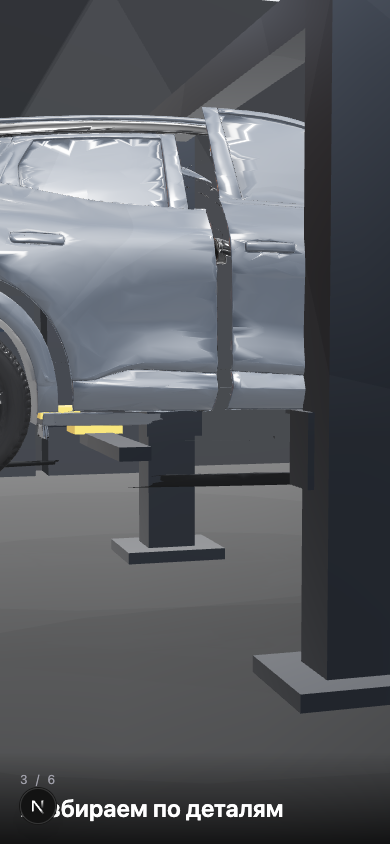
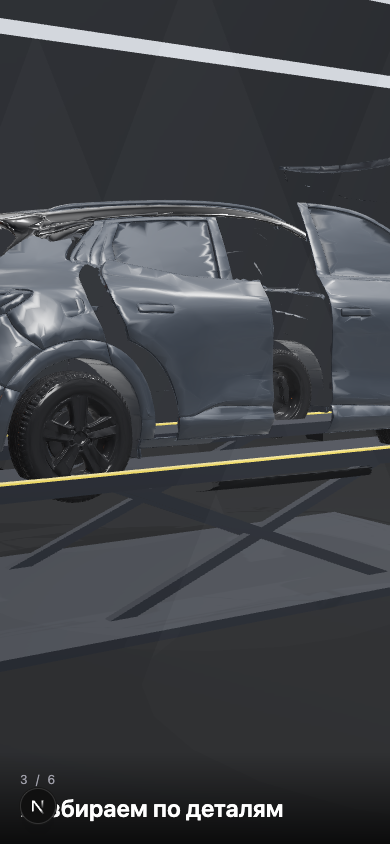
fix(garage): floor/lift materials without env glare, hide ceiling strips in the top view, satin paint, GPU capture on the Mac; fresh tz10 screenshots (60 fps)

diff --git a/src/components/garage-3d/GarageScene.tsx b/src/components/garage-3d/GarageScene.tsx
@@ -9,7 +9,6 @@ import * as THREE from "three";
 import { GLTFLoader } from "three/addons/loaders/GLTFLoader.js";
 import { MeshoptDecoder } from "three/addons/libs/meshopt_decoder.module.js";
 import { RoomEnvironment } from "three/addons/environments/RoomEnvironment.js";
-import { mergeVertices } from "three/addons/utils/BufferGeometryUtils.js";
 import { Reflector } from "three/addons/objects/Reflector.js";
 import { RectAreaLightUniformsLib } from "three/addons/lights/RectAreaLightUniformsLib.js";
 import { CSS2DRenderer, CSS2DObject } from "three/addons/renderers/CSS2DRenderer.js";
@@ -76,7 +75,7 @@ function cameraPose(p: number, outPos: THREE.Vector3, outTgt: THREE.Vector3, car
   if (p < 0.15) outTgt.x += carX * 0.55; // follow the car while it drives in
 }
 
-function buildEnvironment(mobile: boolean): { group: THREE.Group; liftArms: THREE.Group; reflector: Reflector | null; cones: THREE.Object3D[]; dispose: () => void } {
+function buildEnvironment(mobile: boolean): { group: THREE.Group; liftArms: THREE.Group; reflector: Reflector | null; cones: THREE.Object3D[]; leds: THREE.Object3D[]; dispose: () => void } {
   const group = new THREE.Group();
   const disposables: Array<{ dispose: () => void }> = [];
   const mat = (m: THREE.Material) => { disposables.push(m); return m; };
@@ -89,7 +88,7 @@ function buildEnvironment(mobile: boolean): { group: THREE.Group; liftArms: THRE
       clipBias: 0.003,
       textureWidth: 1024,
       textureHeight: 1024,
-      color: 0x232831,
+      color: 0x15181d,
     });
     reflector.rotation.x = -Math.PI / 2;
     reflector.position.y = -0.02;
@@ -97,9 +96,9 @@ function buildEnvironment(mobile: boolean): { group: THREE.Group; liftArms: THRE
   }
   const floor = new THREE.Mesh(
     geo(new THREE.PlaneGeometry(46, 30)),
-    mat(new THREE.MeshPhysicalMaterial({
-      color: 0x05070a, roughness: mobile ? 0.28 : 0.42, metalness: 0.45,
-      transparent: !mobile, opacity: mobile ? 1 : 0.86, envMapIntensity: 0.2,
+    mat(new THREE.MeshStandardMaterial({
+      color: 0x07090c, roughness: 0.92, metalness: 0.0,
+      transparent: !mobile, opacity: mobile ? 1 : 0.86, envMapIntensity: 0.0,
     })),
   );
   floor.rotation.x = -Math.PI / 2;
@@ -125,10 +124,12 @@ function buildEnvironment(mobile: boolean): { group: THREE.Group; liftArms: THRE
 
   // Ceiling LED strips (emissive) + light cones / haze.
   const cones: THREE.Object3D[] = [];
-  const ledMat = mat(new THREE.MeshBasicMaterial({ color: 0xeaf2ff }));
+  const leds: THREE.Object3D[] = [];
+  const ledMat = mat(new THREE.MeshBasicMaterial({ color: 0xc9d4e3 }));
   for (const z of [-2.6, 0, 2.6]) {
     const led = new THREE.Mesh(geo(new THREE.BoxGeometry(9, 0.06, 0.28)), ledMat);
     led.position.set(0, 4.4, z);
+    leds.push(led);
     group.add(led);
     const cone = new THREE.Mesh(
       geo(new THREE.ConeGeometry(1.7, 4.4, 24, 1, true)),
@@ -141,7 +142,7 @@ function buildEnvironment(mobile: boolean): { group: THREE.Group; liftArms: THRE
 
   // Low scissor platform lift: two runways on X-legs; nothing tall between the camera and the car.
   const lift = new THREE.Group();
-  const postMat = mat(new THREE.MeshStandardMaterial({ color: 0x252a32, roughness: 0.4, metalness: 0.8 }));
+  const postMat = mat(new THREE.MeshStandardMaterial({ color: 0x1d2128, roughness: 0.7, metalness: 0.35, envMapIntensity: 0.25 }));
   const yellowMat = mat(new THREE.MeshStandardMaterial({ color: 0xf5c518, roughness: 0.5, metalness: 0.3 }));
   const basePlate = new THREE.Mesh(geo(new THREE.BoxGeometry(4.6, 0.06, 2.3)), postMat);
   basePlate.position.set(0, 0.03, 0);
@@ -169,7 +170,7 @@ function buildEnvironment(mobile: boolean): { group: THREE.Group; liftArms: THRE
   liftArms.userData.legs = legs;
   group.add(lift);
 
-  return { group, liftArms, reflector, cones, dispose: () => disposables.forEach((d) => d.dispose()) };
+  return { group, liftArms, reflector, cones, leds, dispose: () => disposables.forEach((d) => d.dispose()) };
 }
 
 export default function GarageScene(props: GarageSceneProps) {
@@ -246,7 +247,7 @@ export default function GarageScene(props: GarageSceneProps) {
     const camera = new THREE.PerspectiveCamera(42, host.clientWidth / host.clientHeight, 0.1, 120);
 
     RectAreaLightUniformsLib.init();
-    const rect1 = new THREE.RectAreaLight(0xdfeaff, 2.6, 8, 0.5);
+    const rect1 = new THREE.RectAreaLight(0xdfeaff, 2.0, 8, 0.5);
     rect1.position.set(0, 4.35, -2.4);
     rect1.lookAt(0, 0, -2.4);
     const rect2 = rect1.clone();
@@ -318,13 +319,7 @@ export default function GarageScene(props: GarageSceneProps) {
         else if (kind === "wheel") material = wheelMat.clone();
         else if (kind === "light") material = lightMat.clone();
         else if (kind === "underbody") material = underMat.clone();
-        else material = new THREE.MeshPhysicalMaterial({ color: paintBase.clone(), metalness: 0.45, roughness: 0.36, clearcoat: 1, clearcoatRoughness: 0.07, envMapIntensity: 0.9 });
-        try {
-          const g = mergeVertices(mesh.geometry.deleteAttribute("normal") ?? mesh.geometry, 1e-4);
-          g.computeVertexNormals();
-          mesh.geometry.dispose();
-          mesh.geometry = g;
-        } catch { /* keep original normals */ }
+        else material = new THREE.MeshPhysicalMaterial({ color: paintBase.clone(), metalness: 0.3, roughness: 0.5, clearcoat: 0.55, clearcoatRoughness: 0.22, envMapIntensity: 0.8, sheen: 0.25, sheenRoughness: 0.6 });
         mesh.material = material;
         mesh.castShadow = true;
         mesh.receiveShadow = false;
@@ -451,6 +446,10 @@ export default function GarageScene(props: GarageSceneProps) {
       else cameraPose(p, camPos, camTgt, entry);
       camera.position.copy(camPos);
       camera.lookAt(camTgt);
+      // top-down readings view flies above the ceiling strips: hide them (and their haze) so they never cover the car
+      const aboveCeiling = camPos.y > 4.1;
+      env.leds.forEach((l) => { l.visible = !aboveCeiling; });
+      if (!eco) env.cones.forEach((c) => { c.visible = !aboveCeiling; });
 
       frames++;
       if (!eco && performance.now() - ecoAt > 2000) {
